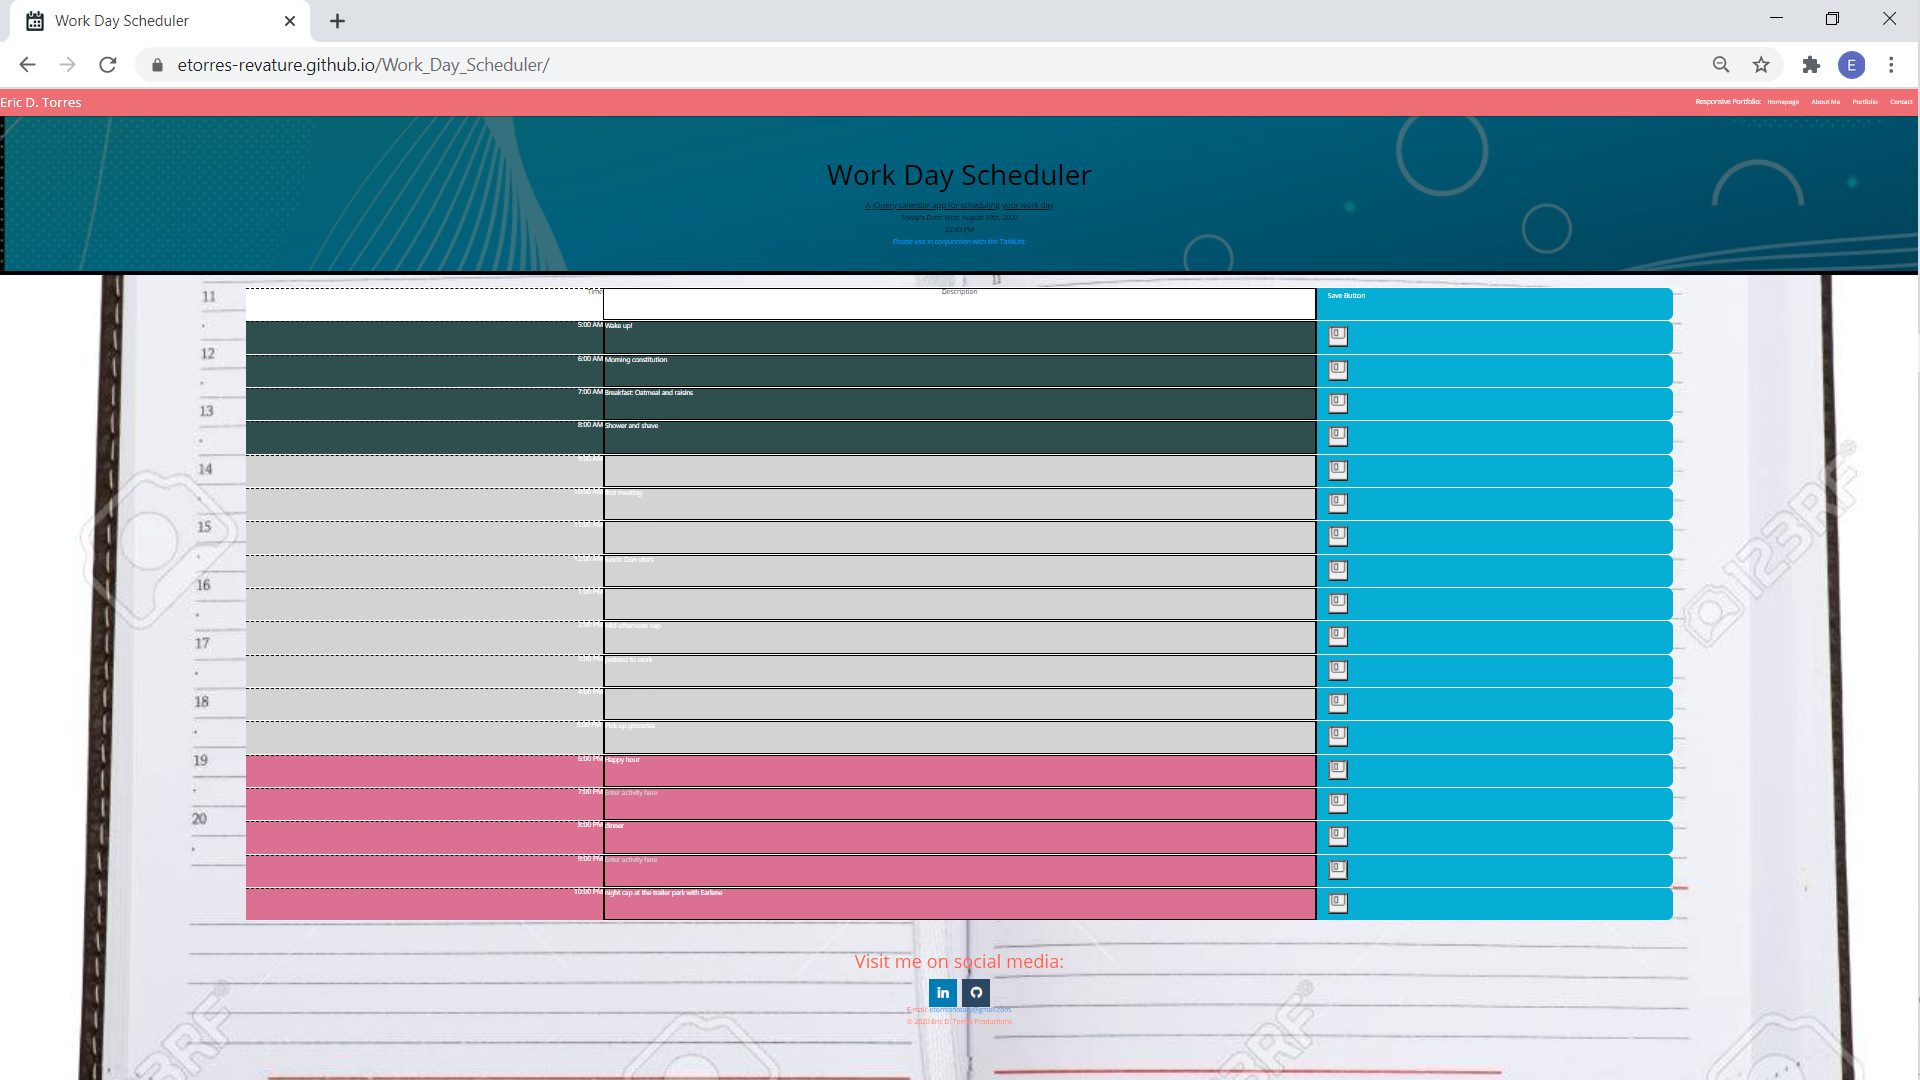
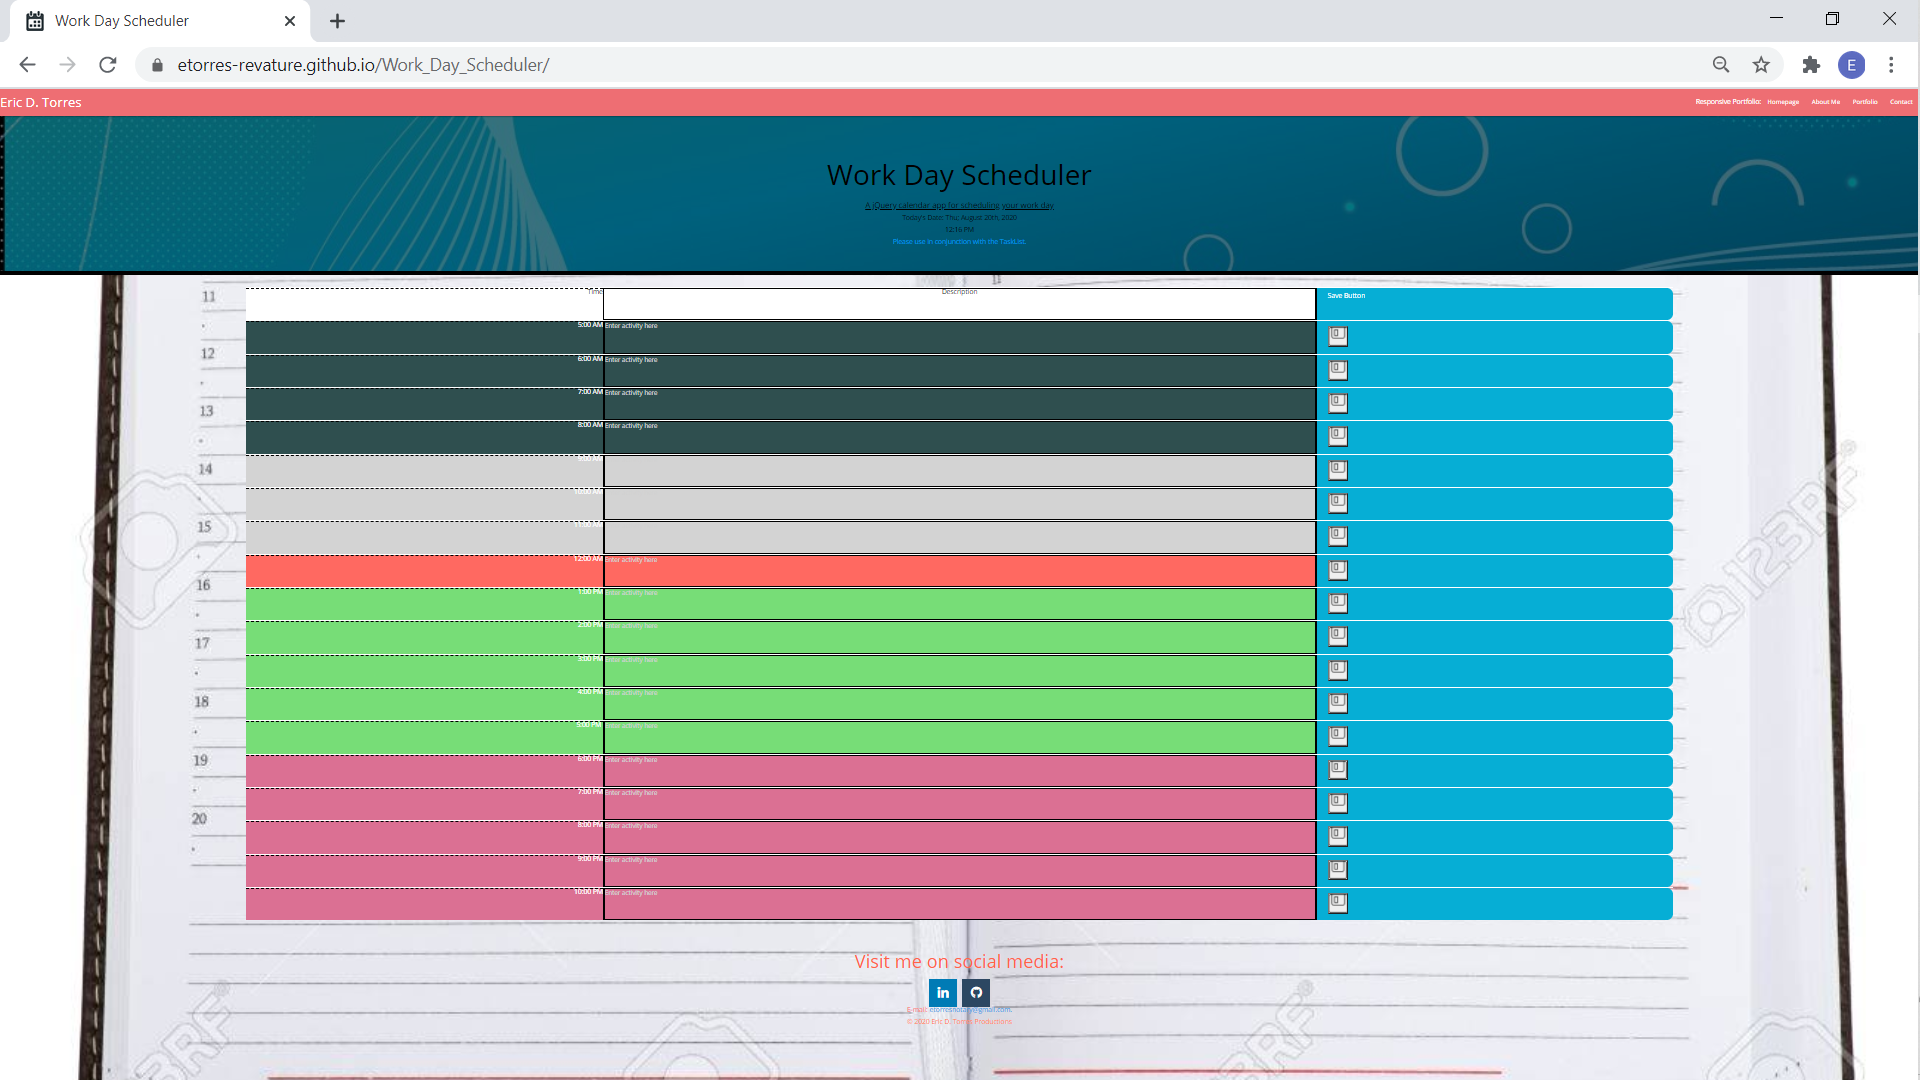
updating screenshot to show current/past/future hours...

diff --git a/script.js b/script.js
@@ -113,7 +113,7 @@ $(document).ready(function () {
             } else {
                 //setting the hour div and its sibling with text area to the css value for past (gray background)
                 $("#" + newBackground).addClass("future");
-                $("#" + newBackground).siblings("div").children("textarea").addClass("future")
+                $("#" + newBackground).siblings("div").children("textarea").addClass("future");
             }
         }
 
